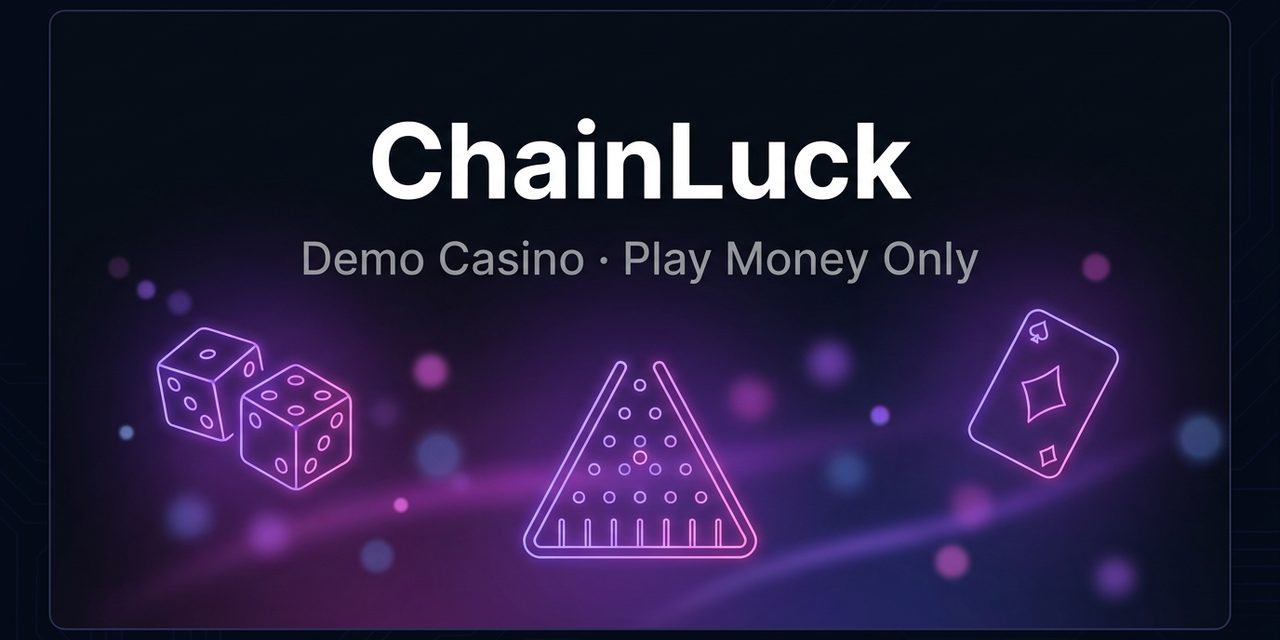
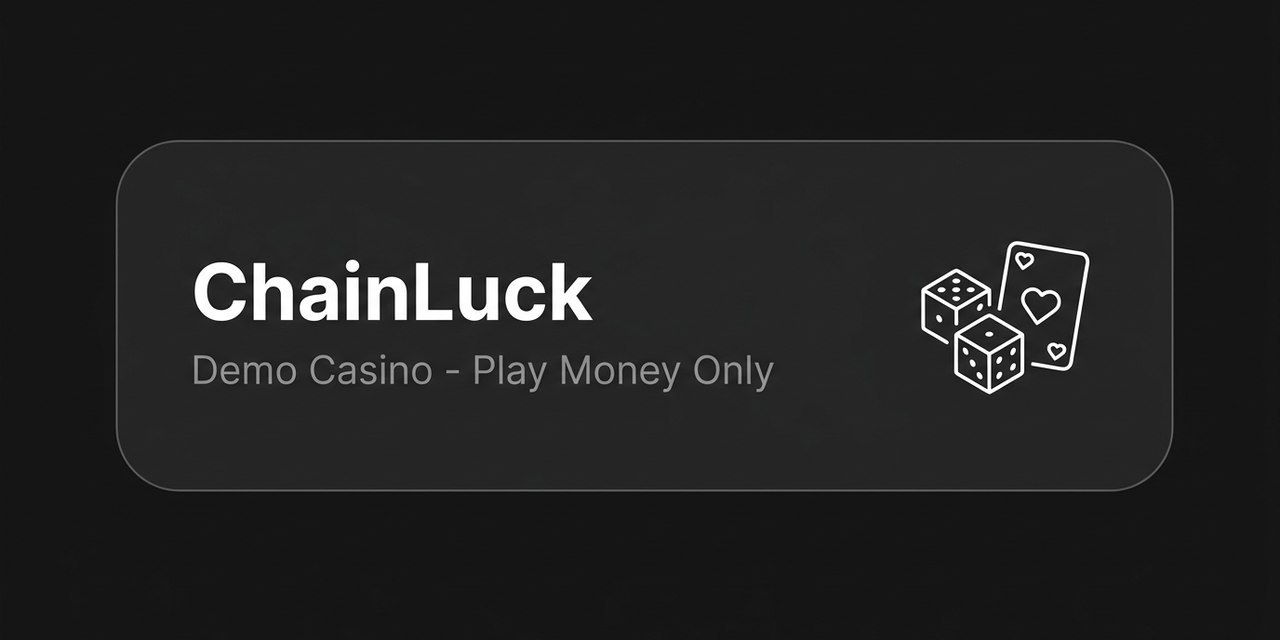
docs: prerequisites + FAQ; new social preview

diff --git a/README.md b/README.md
@@ -17,6 +17,8 @@ signed or sent. MetaMask connect is read-only (address display only). 18+.
 
 ## Run
 
+**Prerequisites:** Python 3 **or** Node.js — any static file server will do. Nothing to install, no build step, no dependencies.
+
 ```bash
 # any static server works
 python3 -m http.server 8080
@@ -29,6 +31,12 @@ fallback is a deterministic non-cryptographic hash (a browser limit, since real
 
 Deploy: push to `main`. GitHub Actions deploys to GitHub Pages and cache-busts
 asset URLs with the run number automatically.
+
+## FAQ
+
+- **Is this real money?** No. Every balance is fictional play money; nothing is signed, sent, or stored on-chain. The MetaMask connection is a read-only address display.
+- **Why does the fairness hash differ on `file://`?** Real `crypto.subtle` requires a secure context (HTTPS or localhost). Opened from `file://`, the app falls back to a deterministic non-cryptographic hash — the games still work, but run it from a static server for the real proof.
+- **Does it need a build step?** No — vanilla JS, zero dependencies. Any static server, or just the [live demo](https://itsfedor.github.io/demo-casino).
 
 ## Verify the math
 
